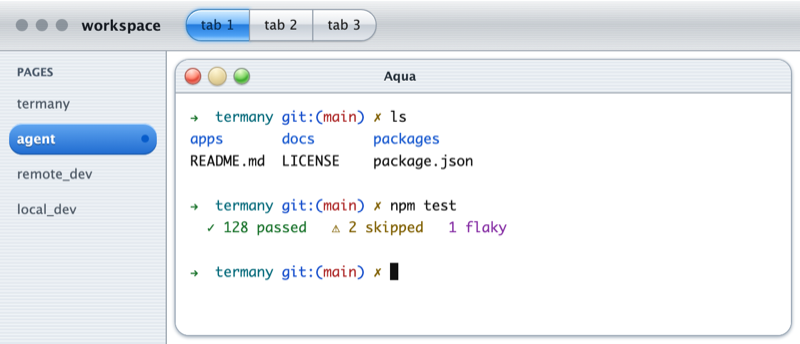
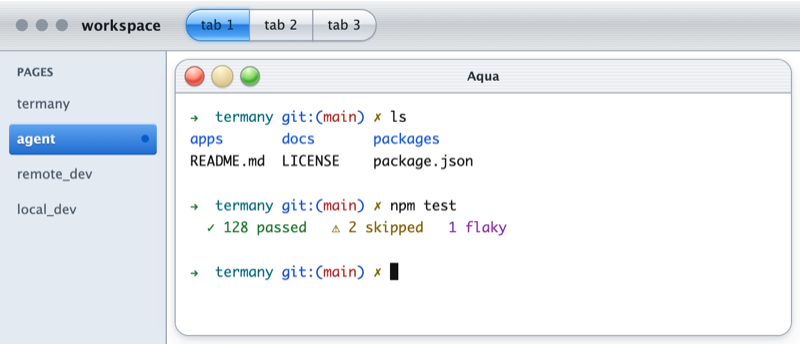
feat(web): refine retro theme chrome and align worksheet grid

diff --git a/apps/web/src/themes/aqua.css b/apps/web/src/themes/aqua.css
@@ -2,7 +2,11 @@
    window actions remain real controls; the unlit yellow light is decorative. */
 html[data-theme="aqua"] {
   --aqua-metal: repeating-linear-gradient(0deg, #ffffff18 0 1px, #6975800a 1px 2px), linear-gradient(#f5f6f7, #c7ccd1 48%, #e3e6e9);
-  --aqua-stripes: repeating-linear-gradient(#f2f5f8 0 1px, #e3e9ef 1px 3px);
+  --aqua-stripes: repeating-linear-gradient(#f6f7f8 0 1px, #e9edf1 1px 3px);
+  --aqua-source: #e3eaf2;
+  --aqua-paper: #f5f6f7;
+  --aqua-window-shadow: 0 2px 5px #23395024, 0 8px 18px #23395014;
+  --aqua-muted: #66717e;
   --aqua-gel: linear-gradient(#d7efff, #74b8fa 45%, #247bdc 49%, #4ca0f4 85%, #a3d6ff);
   --aqua-silver: linear-gradient(#fff, #e6e9ed 45%, #c6cdd5 50%, #e4e8ed);
 }
@@ -15,7 +19,7 @@ html[data-theme="aqua"] :is(.htabbar, .pane-head, .side-rail, .file-tree-head, .
   border-color: #9ba4ae;
   box-shadow: inset 0 1px #fff;
 }
-html[data-theme="aqua"] :is(.sidebar, .settings-nav) { background: var(--aqua-stripes); }
+html[data-theme="aqua"] :is(.sidebar, .settings-nav) { background: var(--aqua-source); }
 html[data-theme="aqua"] :is(.section-title, .section-toggle) { color: #465566; letter-spacing: normal; text-transform: none; }
 html[data-theme="aqua"] .htab {
   border: 1px solid #919ca9;
@@ -150,12 +154,12 @@ html[data-theme="aqua"] :is(button, input, select, textarea):disabled {
    Leave the view/URL menus accessible after the lights. Zen has only Zoom. */
 html[data-theme="aqua"] .pane-head { background: var(--aqua-stripes); padding-inline: 8px; gap: 6px; }
 html[data-theme="aqua"] .pane-head-actions { order: -2; gap: 6px; flex: 0 0 auto; }
-html[data-theme="aqua"] .pane-head-name { position: absolute; left: 50%; transform: translateX(-50%); max-width: calc(100% - 260px); justify-content: center; }
+html[data-theme="aqua"] .pane-head-name { position: absolute; left: 50%; transform: translateX(-50%); max-width: calc(100% - 290px); justify-content: center; }
 html[data-theme="aqua"] .pane-head > .agent-dot { margin-left: auto; }
 html[data-theme="aqua"] .pane-head-spacer { flex: 0; }
 html[data-theme="aqua"] .pane-head-actions > .pane-btn,
 html[data-theme="aqua"] .pane-head-actions::before {
-  width: 15px; height: 15px; flex: 0 0 15px;
+  width: 18px; height: 18px; flex: 0 0 18px;
   border-radius: 50%; border: 1px solid #839083;
   box-shadow: inset 0 1px 2px #fff9, 0 1px 1px #0003;
 }
@@ -164,13 +168,13 @@ html[data-theme="aqua"] .pane-head-actions > .pane-btn {
   background: radial-gradient(circle at 40% 20%, #edffcf, #80d564 45%, #39a62b 60%, #b4ef8b);
   color: #23581c;
 }
-html[data-theme="aqua"] .pane-slot:not(.zen-pane .pane-slot) .pane-head-actions > .pane-btn:last-child {
+html[data-theme="aqua"] .pane-head-actions > [data-pane-action="close"] {
   order: -3;
   background: radial-gradient(circle at 40% 20%, #ffe2d8, #ff8c77 45%, #df4636 60%, #ffa599);
   border-color: #ac554c;
   color: #742319;
 }
-html[data-theme="aqua"] .pane-slot:not(.zen-pane .pane-slot) .pane-head-actions::before {
+html[data-theme="aqua"] .pane-head-actions:has([data-pane-action="close"])::before {
   content: "";
   order: -2;
   background: radial-gradient(circle at 40% 20%, #fff7d5, #e6d49c 55%, #c7b47f);
@@ -210,7 +214,34 @@ html[data-theme="aqua"] .settings-nav-item { border-radius: 0; padding-inline: 1
 
 /* Narrow splits trade perfect centering for a readable, nonoverlapping title. */
 html[data-theme="aqua"] .pane-slot { container-type: inline-size; }
-@container (max-width: 380px) {
+@container (max-width: 480px) {
   html[data-theme="aqua"] .pane-head-name { position: static; transform: none; max-width: none; flex: 1; }
   html[data-theme="aqua"] .pane-head > .agent-dot { margin-left: 0; }
+}
+
+/* Source-list rows stay quiet; texture belongs to the window frame. */
+html[data-theme="aqua"] .tree-row { border-radius: 3px; }
+html[data-theme="aqua"] .pane-slot.focused { box-shadow: var(--aqua-window-shadow); }
+html[data-theme="aqua"] .pane-card:has(.pane-slot.focused) .pane-slot:not(.focused) :is(.pane-head-title, .pane-connection-trigger) {
+  color: var(--aqua-muted); text-shadow: none;
+}
+html[data-theme="aqua"] .app-tab-rail { background: var(--aqua-metal); }
+html[data-theme="aqua"] .app-tab-icon { background: var(--aqua-silver); border-radius: 6px; }
+html[data-theme="aqua"] .app-tab-button.active .app-tab-icon { background: var(--aqua-gel); }
+html[data-theme="aqua"] .pane-head-actions > .pane-btn { cursor: pointer; }
+html[data-theme="aqua"] .pane-head-actions > .pane-btn:active { filter: brightness(.85); }
+@media (prefers-reduced-motion: reduce) {
+  html[data-theme="aqua"] :is(.pane-slot, .settings-window, .app-tab-icon) { animation: none; transition: none; }
+}
+
+html[data-theme="aqua"] .settings-body { background: var(--aqua-paper); }
+html[data-theme="aqua"] .bot-setting-switch { background: var(--aqua-silver); border: 1px solid var(--border); }
+html[data-theme="aqua"] .bot-setting-switch[aria-checked="true"] { background: var(--aqua-gel); border-color: var(--accent); }
+/* At a narrow split, give the title space before decorative chrome. */
+@container (max-width: 300px) {
+  html[data-theme="aqua"] .pane-head { gap: 4px; padding-inline: 5px; }
+  html[data-theme="aqua"] .pane-head-actions { gap: 4px; }
+  html[data-theme="aqua"] .pane-head-actions:has([data-pane-action="close"])::before { display: none; }
+  html[data-theme="aqua"] .pane-connection-trigger > svg:first-child { display: none; }
+  html[data-theme="aqua"] .pane-head-name { justify-content: flex-start; }
 }

diff --git a/apps/web/src/themes/winxp.css b/apps/web/src/themes/winxp.css
@@ -4,6 +4,14 @@ html[data-theme="winxp"] {
   --xp-caption: linear-gradient(#79b1ff 0%, #0869f2 12%, #0054df 55%, #1678f0 92%, #003caa);
   --xp-button: linear-gradient(#fff, #f4f2e7 55%, #e4dec5);
   --xp-green: linear-gradient(#a3dd76, #63ad36 45%, #36831d 50%, #5eaa34);
+  --xp-task: linear-gradient(#438cf1, #2e75dd 45%, #1f62c9);
+  --xp-task-active: linear-gradient(#154fae, #2365c9);
+  --xp-task-border: #124da9;
+  --xp-highlight: #fff;
+  --xp-toolbar: #ece9d8;
+  --xp-toolbar-ink: #16469a;
+  --xp-hover: #fce8bd;
+  --xp-hover-border: #e5a34d;
 }
 html[data-theme="winxp"] :is(body, #root) {
   font-family: Tahoma, "Microsoft Sans Serif", Verdana, "PingFang SC", "Hiragino Sans", "Microsoft YaHei", sans-serif;
@@ -16,22 +24,22 @@ html[data-theme="winxp"] :is(.htabbar, .pane-head) {
 }
 html[data-theme="winxp"] .htabbar { border-bottom: 1px solid #003caa; }
 html[data-theme="winxp"] .htab {
-  background: linear-gradient(#f1f6ff, #c2d9ff);
-  color: #174685;
+  background: var(--xp-task);
+  color: var(--xp-highlight);
   border: 1px solid #7ea6dd;
-  border-radius: 5px 5px 0 0;
-  align-self: flex-end;
+  border-radius: 3px;
+  align-self: center;
   height: 29px;
   box-shadow: inset 0 1px 0 #fff;
 }
-html[data-theme="winxp"] .htab:hover { background: linear-gradient(#fff, #e0edff); }
+html[data-theme="winxp"] .htab:hover { background: var(--xp-caption); }
 html[data-theme="winxp"] .htab.active,
 html[data-theme="winxp"] .htab.active:hover {
-  background: var(--xp-green);
-  color: #fff;
-  border-color: #367b21;
-  box-shadow: inset 0 1px 0 #dbffc5;
-  text-shadow: 0 1px #316b22;
+  background: var(--xp-task-active);
+  color: var(--xp-highlight);
+  border-color: var(--xp-task-border);
+  box-shadow: inset 1px 1px 2px var(--xp-task-border);
+  text-shadow: none;
 }
 html[data-theme="winxp"] :is(.htabbar .bar-btn, .htab-add) { color: #fff; }
 /* Explorer task groups use existing section/tree containers, so collapse,
@@ -88,7 +96,7 @@ html[data-theme="winxp"] .pane-btn {
   box-shadow: inset 1px 1px 0 #b4d4ff;
 }
 /* Zen omits Close, so its last action must remain a blue Restore button. */
-html[data-theme="winxp"] .pane-slot:not(.zen-pane .pane-slot) .pane-head-actions > .pane-btn:last-child,
+html[data-theme="winxp"] .pane-head-actions > [data-pane-action="close"],
 html[data-theme="winxp"] :is(.settings-close, .ssh-manager-close) {
   color: #fff;
   border: 1px solid #fff;
@@ -280,3 +288,21 @@ html[data-theme="winxp"] .sidebar-workspace-switcher {
 }
 html[data-theme="winxp"] .sidebar-workspace-switcher > svg { color: #fff; }
 html[data-theme="winxp"] .sidebar-workspace-switcher:hover { background: var(--xp-green); filter: brightness(1.1); }
+
+/* The tool rails are XP toolbars, with cream buttons and amber hover edges. */
+html[data-theme="winxp"] :is(.app-tab-rail, .side-rail) { background: var(--xp-toolbar); }
+html[data-theme="winxp"] :is(.app-tab-button, .side-rail-btn) { color: var(--xp-toolbar-ink); }
+html[data-theme="winxp"] .app-tab-icon { background: var(--xp-button); border-radius: 3px; }
+html[data-theme="winxp"] :is(.app-tab-button.active .app-tab-icon, .side-rail-btn.active) {
+  background: var(--xp-hover); box-shadow: inset 0 0 0 1px var(--xp-hover-border);
+}
+html[data-theme="winxp"] :is(.app-tab-button:hover .app-tab-icon, .side-rail-btn:hover) {
+  background: var(--xp-button); box-shadow: inset 0 0 0 1px var(--xp-hover-border);
+}
+html[data-theme="winxp"] .htab-close { color: inherit; }
+html[data-theme="winxp"] .pane-card:has(.pane-slot.focused) .pane-slot:not(.focused) .pane-btn { filter: saturate(.45); }
+html[data-theme="winxp"] .pane-card:has(.pane-slot.focused) .pane-slot:not(.focused) .pane-btn:hover { filter: none; }
+
+html[data-theme="winxp"] .bot-setting-switch { background: var(--xp-button); border: 1px solid var(--border); border-radius: 3px; }
+html[data-theme="winxp"] .bot-setting-switch[aria-checked="true"] { background: var(--xp-green); }
+html[data-theme="winxp"] .bot-setting-switch::before { border-radius: 2px; background: var(--xp-toolbar); }

diff --git a/apps/web/src/themes/excel.css b/apps/web/src/themes/excel.css
@@ -1,7 +1,10 @@
 /* Spreadsheet camouflage. The grid is decorative, never an overlay on top of
    xterm: selecting, clicking links and mouse-reporting TUIs still work. */
 html[data-theme="excel"] {
-  --sheet-grid: repeating-linear-gradient(90deg, transparent 0 63px, #e3e7e4 63px 64px), repeating-linear-gradient(180deg, transparent 0 19px, #e3e7e4 19px 20px);
+  --sheet-line: #e9edea;
+  --sheet-header-line: #d9dedb;
+  --sheet-header: #f0f2f1;
+  --sheet-label: #425448;
 }
 html[data-theme="excel"] :is(body, #root) {
   font-family: Calibri, Carlito, "Segoe UI", "Helvetica Neue", "PingFang SC", "Microsoft YaHei", sans-serif;
@@ -73,7 +76,7 @@ html[data-theme="excel"] .pane-body:has(.term-pane)::before {
   pointer-events: none;
 }
 html[data-theme="excel"] .pane-body:has(.term-pane)::after {
-  content: "1\a 2\a 3\a 4\a 5\a 6\a 7\a 8\a 9\a 10\a 11\a 12\a 13\a 14\a 15\a 16\a 17\a 18\a 19\a 20\a 21\a 22\a 23\a 24\a 25\a 26\a 27\a 28\a 29\a 30\a 31\a 32\a 33\a 34\a 35\a 36\a 37\a 38\a 39\a 40\a 41\a 42\a 43\a 44\a 45\a 46\a 47\a 48\a 49\a 50";
+  content: "1\a 2\a 3\a 4\a 5\a 6\a 7\a 8\a 9\a 10\a 11\a 12\a 13\a 14\a 15\a 16\a 17\a 18\a 19\a 20\a 21\a 22\a 23\a 24\a 25\a 26\a 27\a 28\a 29\a 30\a 31\a 32\a 33\a 34\a 35\a 36\a 37\a 38\a 39\a 40\a 41\a 42\a 43\a 44\a 45\a 46\a 47\a 48\a 49\a 50\a 51\a 52\a 53\a 54\a 55\a 56\a 57\a 58\a 59\a 60\a 61\a 62\a 63\a 64\a 65\a 66\a 67\a 68\a 69\a 70\a 71\a 72\a 73\a 74\a 75\a 76\a 77\a 78\a 79\a 80\a 81\a 82\a 83\a 84\a 85\a 86\a 87\a 88\a 89\a 90\a 91\a 92\a 93\a 94\a 95\a 96\a 97\a 98\a 99\a 100\a 101\a 102\a 103\a 104\a 105\a 106\a 107\a 108\a 109\a 110\a 111\a 112\a 113\a 114\a 115\a 116\a 117\a 118\a 119\a 120\a 121\a 122\a 123\a 124\a 125\a 126\a 127\a 128\a 129\a 130\a 131\a 132\a 133\a 134\a 135\a 136\a 137\a 138\a 139\a 140\a 141\a 142\a 143\a 144\a 145\a 146\a 147\a 148\a 149\a 150\a 151\a 152\a 153\a 154\a 155\a 156\a 157\a 158\a 159\a 160\a 161\a 162\a 163\a 164\a 165\a 166\a 167\a 168\a 169\a 170\a 171\a 172\a 173\a 174\a 175\a 176\a 177\a 178\a 179\a 180\a 181\a 182\a 183\a 184\a 185\a 186\a 187\a 188\a 189\a 190\a 191\a 192\a 193\a 194\a 195\a 196\a 197\a 198\a 199\a 200";
   position: absolute;
   top: 21px;
   left: 0;
@@ -82,17 +85,17 @@ html[data-theme="excel"] .pane-body:has(.term-pane)::after {
   overflow: hidden;
   white-space: pre;
   text-align: center;
-  font: 12px/20px Calibri, sans-serif;
-  background: repeating-linear-gradient(180deg, transparent 0 19px, #d9dedb 19px 20px), #f0f2f1;
-  color: #425448;
+  font: 11px/var(--terminal-row-height, 20px) Calibri, sans-serif;
+  background: repeating-linear-gradient(180deg, transparent 0 calc(var(--terminal-row-height, 20px) - 1px), var(--sheet-header-line) calc(var(--terminal-row-height, 20px) - 1px) var(--terminal-row-height, 20px)), var(--sheet-header);
+  color: var(--sheet-label);
   border-right: 1px solid #c8cdca;
   pointer-events: none;
 }
 html[data-theme="excel"] .term-pane {
   inset: 21px 0 0 29px;
-  padding: 2px 0 0 2px;
+  padding: 0 0 0 3px;
   background-color: #fff;
-  background-image: var(--sheet-grid);
+  background-image: repeating-linear-gradient(90deg, transparent 0 63px, var(--sheet-line) 63px 64px), repeating-linear-gradient(180deg, transparent 0 calc(var(--terminal-row-height, 20px) - 1px), var(--sheet-line) calc(var(--terminal-row-height, 20px) - 1px) var(--terminal-row-height, 20px));
   background-position: 0 0;
 }
 html[data-theme="excel"] :is(.file-tree-head, .web-toolbar, .agent-tools-header) { background: #f3f3f3; border-bottom: 1px solid #c8cdca; }

diff --git a/apps/web/src/terminal/manager.ts b/apps/web/src/terminal/manager.ts
@@ -1329,13 +1329,19 @@ function refreshOnSymbolsFontLoad() {
  *  symbols fallback rides along so Nerd Font icons survive any font choice. */
 export function applyFontFamily(family: string) {
   currentFontFamily = family;
-  for (const s of sessions.values()) s.term.options.fontFamily = withSymbolsFallback(family);
+  for (const [id, s] of sessions) {
+    s.term.options.fontFamily = withSymbolsFallback(family);
+    requestAnimationFrame(() => fitSession(id));
+  }
 }
 
 /** Push a font size change to every live terminal + future sessions. */
 export function applyFontSize(size: number) {
   currentFontSize = size;
-  for (const s of sessions.values()) s.term.options.fontSize = size;
+  for (const [id, s] of sessions) {
+    s.term.options.fontSize = size;
+    requestAnimationFrame(() => fitSession(id));
+  }
 }
 
 function getSession(id: string, cwdFrom?: string[], sshTarget?: string, paneId = id): Session {
@@ -1912,6 +1918,14 @@ export function fitSession(id: string) {
   if (s.el.isConnected && (s.el.clientWidth < 5 || s.el.clientHeight < 5)) return;
   try {
     s.fit.fit();
+    // Worksheet decoration follows the rendered rows, including per-pane zoom
+    // and fractional device scaling. No private xterm renderer API is needed.
+    const screen = s.term.element?.querySelector<HTMLElement>(".xterm-screen");
+    const body = s.el.closest<HTMLElement>(".pane-body");
+    const rowHeight = screen ? parseFloat(getComputedStyle(screen).height) / s.term.rows : 0;
+    if (body && Number.isFinite(rowHeight) && rowHeight > 0) {
+      body.style.setProperty("--terminal-row-height", `${rowHeight}px`);
+    }
     s.backend.resize(s.term.cols, s.term.rows);
     if (!s.followOutput && s.lockedViewportY !== null) {
       s.term.scrollToLine(Math.min(s.lockedViewportY, s.term.buffer.active.baseY));

diff --git a/apps/web/src/themes/bsod.css b/apps/web/src/themes/bsod.css
@@ -136,3 +136,21 @@ html[data-theme="bsod"] :is(.agent-composer-add, .agent-composer-add:hover, .age
 html[data-theme="bsod"] :is(.agent-dot, .tree-dot) { background: #fff; box-shadow: none; }
 html[data-theme="bsod"] :is(button, input, select, textarea)[aria-disabled="true"] { opacity: .5; }
 html[data-theme="bsod"] input { accent-color: #fff; }
+
+/* A selected tool or menu remains identifiable without relying on hue. */
+html[data-theme="bsod"] :is(.app-tab-button.active .app-tab-icon, .side-rail-btn.active) {
+  outline: 1px solid var(--fg); outline-offset: 2px;
+}
+html[data-theme="bsod"] :is(.htab.active, .tree-row.active, .settings-nav-item.active) { font-weight: 700; }
+html[data-theme="bsod"] .pane-slot.focused .pane-head { border-bottom-color: var(--fg); }
+html[data-theme="bsod"] .pane-slot:not(.focused) .pane-head { border-bottom-style: dashed; }
+html[data-theme="bsod"] :is(.ws-menu, .pop-panel, .pop-sub, .search-palette, .settings-window, .ws-dialog, .ssh-manager-dialog) {
+  border-color: var(--fg);
+}
+html[data-theme="bsod"] .sidebar::before { padding-bottom: 12px; font-size: clamp(56px, 10vh, 96px); }
+@media (max-height: 600px) {
+  html[data-theme="bsod"] .sidebar::before { font-size: 48px; padding-block: 4px; }
+}
+@media (prefers-reduced-motion: reduce) {
+  html[data-theme="bsod"] :is(.pane-slot, .app-tab-icon) { animation: none; transition: none; }
+}

diff --git a/apps/web/src/components/SplitView.tsx b/apps/web/src/components/SplitView.tsx
@@ -388,6 +388,7 @@ function PaneHeader({
         <PaneViewMenu leaf={leaf} />
         <button
           className="pane-btn"
+          data-pane-action="zoom"
           title={withShortcut(solo ? "Restore" : "Maximize", "toggleMaximize")}
           onClick={() => toggleMaximize(leaf.id)}
         >
@@ -398,6 +399,7 @@ function PaneHeader({
         {!zen && (
           <button
             className="pane-btn"
+            data-pane-action="close"
             title={withShortcut("Close pane", "closePane")}
             // Don't let the slot's mousedown focus a pane we're about to close:
             // it would make closing ANY pane look like closing the focused one,

diff --git a/apps/web/src/themes/winxp.ts b/apps/web/src/themes/winxp.ts
@@ -30,7 +30,7 @@ export const winxp: Theme = {
   chrome: {
     topBar: "linear-gradient(#69a6ff 0%, #0965ec 12%, #0054dc 55%, #2080f5 94%, #003cb4)",
     topBarBorder: "#003caa",
-    activeTab: "#69b83e",
+    activeTab: "#2365c9",
     activeRow: "#c1d6fa",
     paneGap: "9px",
     paneRadius: "10px",
